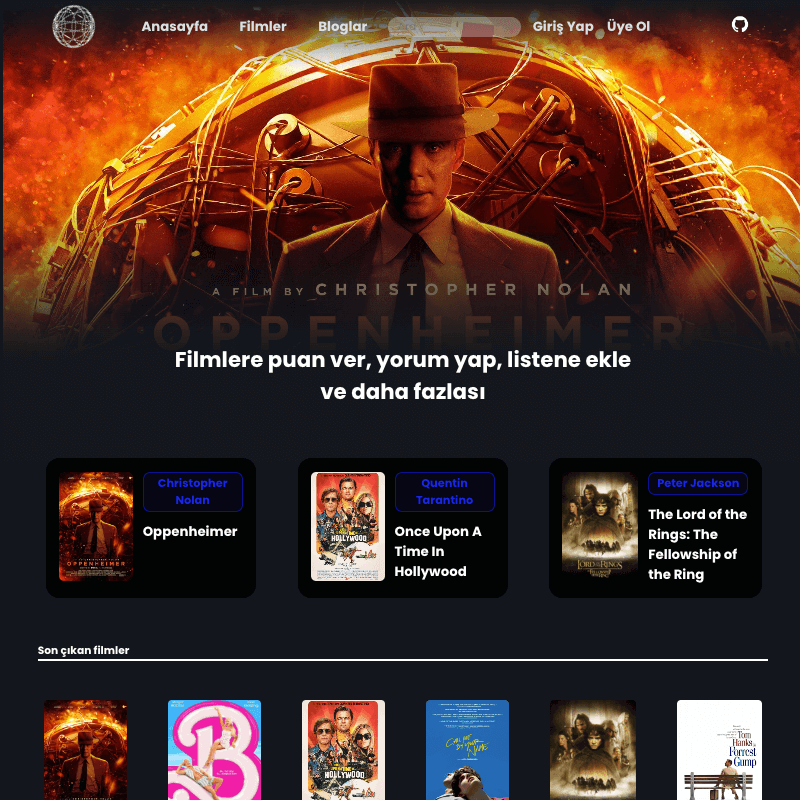
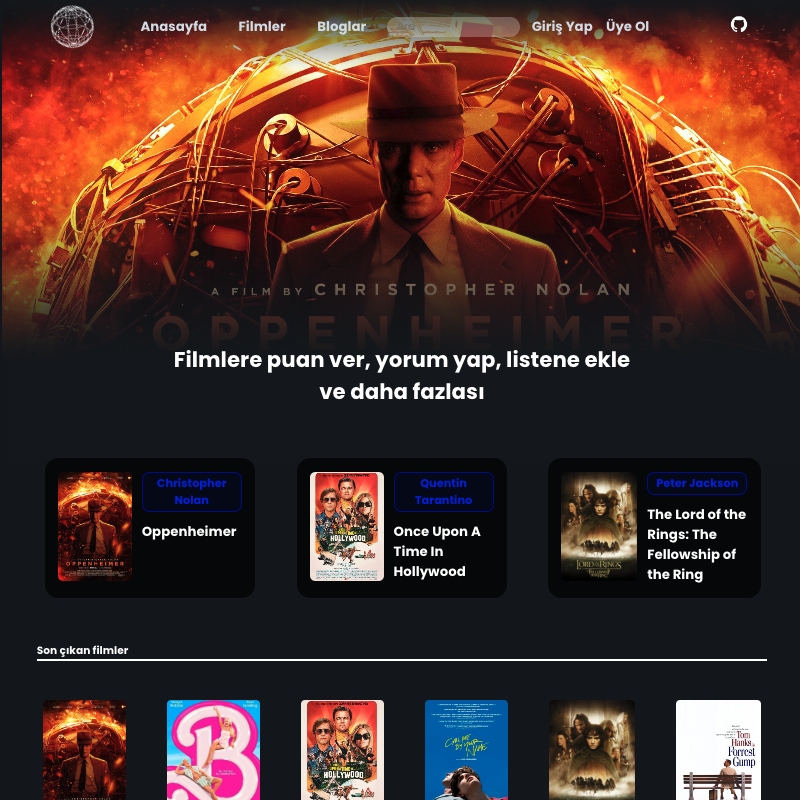
Yeni 3 çalışmam siteye eklendi.

diff --git a/index.html b/index.html
@@ -173,6 +173,48 @@
 					<ul class="gallery_zoom">
 						<li class="youtube">
 							<div class="inner">
+								<div class="entry shane_tm_portfolio_animation_wrap" data-title="4 Kişilik Ekip ile Film Eleştiri Sitesi" data-category="HTML-CSS-JS-MVC">
+									<a href="https://sinesozluk.com/" target="_blank">
+										<img src="assets/img/png/sinesozluk.png" alt="Travel Work Images" width="340px" height="286px"  />
+										<div class="main" data-img-url="assets/img/png/sinesozluk.png"></div>
+									</a>
+								</div>
+								<div class="mobile_title">
+									<h3>4 Kişilik Ekip ile Film Eleştiri Sitesi</h3>
+									<span>HTML-CSS-JS-MVC</span>
+								</div>
+							</div>
+						</li>
+						<li class="youtube">
+							<div class="inner">
+								<div class="entry shane_tm_portfolio_animation_wrap" data-title="React UseState ile Tasklist Çalışması" data-category="Vite - React(UseState)">
+									<a href="https://tasklistapp-gamma.vercel.app/" target="_blank">
+										<img src="assets/img/png/tasklist.png" alt="Travel Work Images"/>
+										<div class="main" data-img-url="assets/img/png/tasklist.png"></div>
+									</a>
+								</div>
+								<div class="mobile_title">
+									<h3>React UseState ile Tasklist Çalışması</h3>
+									<span>Vite - React(UseState)</span>
+								</div>
+							</div>
+						</li>
+						<li class="youtube">
+							<div class="inner">
+								<div class="entry shane_tm_portfolio_animation_wrap" data-title="React Router ile Seyahat Sitesi" data-category="Vite - React Router">
+									<a href="https://react-router-with-travel-website.vercel.app/" target="_blank">
+										<img src="assets/img/png/reactur.png" alt="Travel Work Images"  />
+										<div class="main" data-img-url="assets/img/png/reactur.png"></div>
+									</a>
+								</div>
+								<div class="mobile_title">
+									<h3>React Router ile Seyahat Sitesi</h3>
+									<span>Vite - React Router</span>
+								</div>
+							</div>
+						</li>
+						<li class="youtube">
+							<div class="inner">
 								<div class="entry shane_tm_portfolio_animation_wrap" data-title="Seyahat Sitesi Tasarımı Kodlama (Desktop + Mobile - 3 Sayfa)" data-category="HTML - CSS - JS">
 									<a href="./projects/travel/home.html" target="_blank">
 										<img src="assets/img/png/travel.png" alt="Travel Work Images" />
@@ -337,7 +379,7 @@
 											<span>HTML - CSS - JS</span>
 										</div>
 
-										<li class="detail">
+								<li class="detail">
 											<div class="inner">
 												<div class="entry shane_tm_portfolio_animation_wrap" data-title="JS DOM ile Text Editör Uygulaması" data-category="HTML - CSS - JS">
 													<a href="./projects/textEditor/index.html" target="_blank">
@@ -352,16 +394,16 @@
 
 												<li class="detail">
 													<div class="inner">
-														<div class="entry shane_tm_portfolio_animation_wrap" data-title="UNO Kart Oyunu" data-category="HTML - CSS - JS">
-															<a href="./projects/unoGames/unoGame.html" target="_blank">
-																<img src="assets/img/png/UnoGames.png" />
-																<div class="main" data-img-url="assets/img/png/UnoGames.png"></div>
-															</a>
-														</div>
-														<div class="mobile_title">
-															<h3>UNO Kart Oyunu</h3>
-															<span>HTML - CSS - JS</span>
-														</div>
+													<div class="entry shane_tm_portfolio_animation_wrap" data-title="UNO Kart Oyunu" data-category="HTML - CSS - JS">
+												<a href="./projects/unoGames/unoGame.html" target="_blank">
+												<img src="assets/img/png/UnoGames.png" />
+												<div class="main" data-img-url="assets/img/png/UnoGames.png"></div>
+												</a>
+												</div>
+												<div class="mobile_title">
+												<h3>UNO Kart Oyunu</h3>
+									<span>HTML - CSS - JS</span>
+							</div>
 							</div>
 						</li>
 						<li class="youtube">
